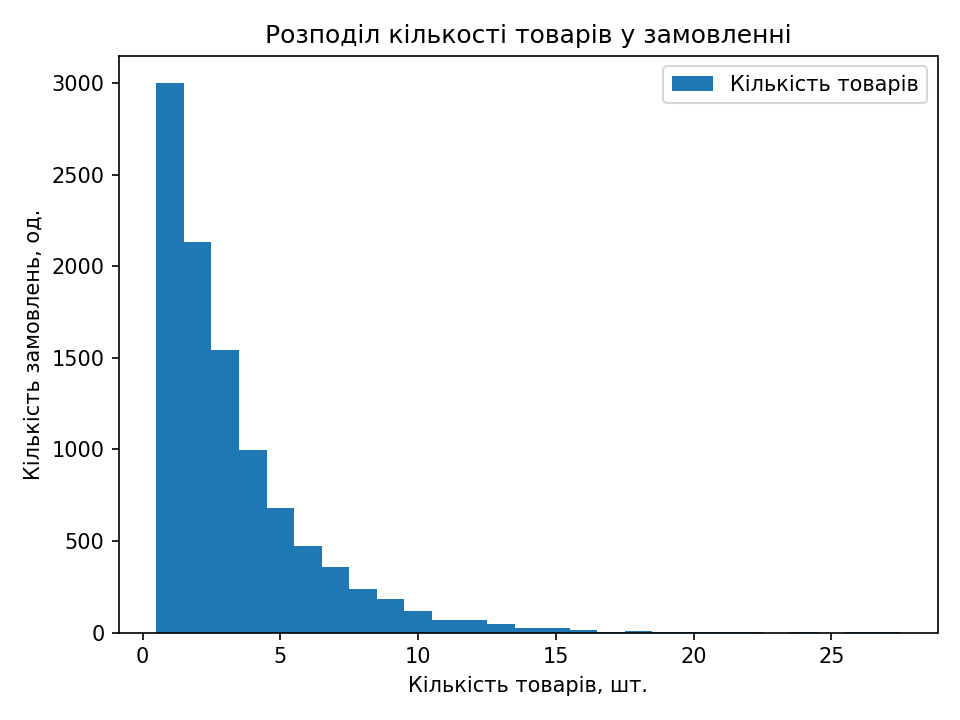
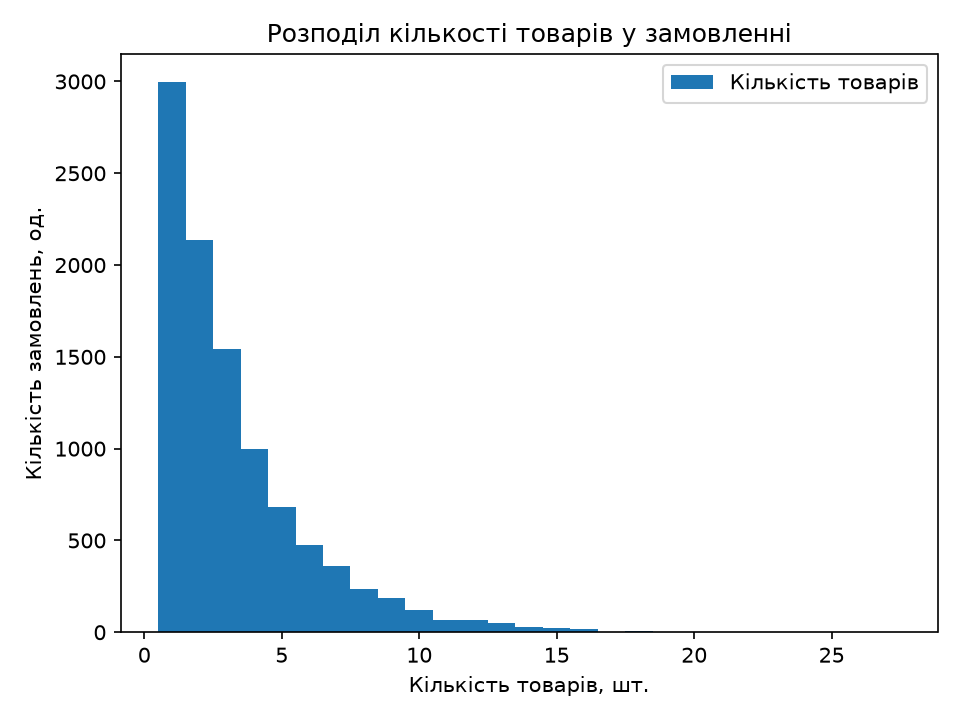
feat: λ залежить від періодів дня (вимога умови теми 10)
- input_stream: PERIODS (4 періоди дня), lam_for_step(), mean_arrival_rate()
- sim_core: simulate_day приймає lam як число або функцію lam(step) - зворотна сумісність
- stage1/stage2: використовують розклад λ, друкують періоди дня
- analytics/stage3: усереднення λ для аналітичної моделі, лог про періоди
- plots: перегенеровано рисунки під нову модель

diff --git a/src/stage3_analytic.py b/src/stage3_analytic.py
@@ -7,11 +7,11 @@ import pandas as pd
 
 if __package__:
     from .analytics import run_analytics
-    from .input_stream import mean_service_time
+    from .input_stream import lam_for_step, mean_arrival_rate, mean_service_time
     from .sim_core import DAY_MIN, STEP_MIN
 else:
     from analytics import run_analytics
-    from input_stream import mean_service_time
+    from input_stream import lam_for_step, mean_arrival_rate, mean_service_time
     from sim_core import DAY_MIN, STEP_MIN
 
 
@@ -83,13 +83,18 @@ def calculate_analytic(C, queue_limit, lam, mean_service=None):
 def compare_with_simulation(
     queue_limit, lam, workers=range(1, 5), runs=100, seed=42
 ):
-    """Порівнює середнє імітації з теоретичними значеннями для тих самих умов."""
+    """Порівнює середнє імітації з теоретичними значеннями для тих самих умов.
+
+    У імітації λ може бути розкладом за періодами дня, а аналітична модель
+    M/M/C/(C+m) однорідна за часом - тому для неї береться середнє λ за день.
+    """
     simulation = run_analytics(
         queue_limit, lam, workers=workers, runs=runs, seed=seed
     )
+    lam_analytic = mean_arrival_rate() if callable(lam) else lam
     analytic_rows = []
     for count in simulation["workers"]:
-        result = calculate_analytic(count, queue_limit, lam)
+        result = calculate_analytic(count, queue_limit, lam_analytic)
         analytic_rows.append({
             "workers": count,
             "analytic_served_per_day": result.served_per_day,
@@ -103,8 +108,9 @@ def compare_with_simulation(
 
 if __name__ == "__main__":
     queue_limit = 5
-    lam = 3
-    print("Параметри: lambda =", lam, "клієнтів за", STEP_MIN, "хв;")
+    lam = lam_for_step      # λ за періодами дня (вимога умови); середнє = 3.0
+    print("Параметри: lambda =", mean_arrival_rate(), "клієнтів за", STEP_MIN,
+          "хв (середнє за день; у імітації - розклад за періодами);")
     print("m =", queue_limit, "місць у черзі;")
     print("E[S] =", round(mean_service_time(), 4), "хв; день =", DAY_MIN, "хв.")
     print(compare_with_simulation(queue_limit, lam).to_string(index=False))

diff --git a/stage2_multi.py b/stage2_multi.py
@@ -8,10 +8,12 @@ import sys
 sys.path.insert(0, os.path.join(os.path.dirname(os.path.abspath(__file__)), "src"))
 
 import numpy as np
+from input_stream import PERIODS, lam_for_step
 from sim_core import simulate_day
 
 # --- параметри (підбираються командою) ---
-LAM = 3             # середня кількість клієнтів за крок (15 хв)
+# λ залежить від часу доби (вимога умови теми 10) - див. PERIODS у input_stream.py
+LAM = lam_for_step
 QUEUE_LIMIT = 5     # максимум місць у черзі
 C_VALUES = [1, 2, 3, 4]   # скільки працівників пробуємо
 
@@ -20,6 +22,10 @@ N_RUNS = 100        # прогонів на кожен варіант
 print("=" * 64)
 print("ЕТАП 2: багатоканальна система")
 print("=" * 64)
+print("Періоди дня (λ - середня кількість клієнтів за крок 15 хв):")
+for _name, _start, _end, _value in PERIODS:
+    print(f"  {_name}: кроки {_start}-{_end - 1}, лямбда = {_value}")
+print()
 print(f"{'Працівників':>12} | {'Обслужено':>10} | {'Втрачено':>9} | {'Простій':>8}")
 print("-" * 64)
 

diff --git a/stage1_single.py b/stage1_single.py
@@ -8,16 +8,21 @@ import sys
 sys.path.insert(0, os.path.join(os.path.dirname(os.path.abspath(__file__)), "src"))
 
 import numpy as np
+from input_stream import PERIODS, lam_for_step
 from sim_core import simulate_day
 
 # --- параметри (підбираються командою) ---
-LAM = 3             # середня кількість клієнтів за крок (15 хв)
+# λ залежить від часу доби (вимога умови теми 10) - див. PERIODS у input_stream.py
+LAM = lam_for_step
 QUEUE_LIMIT = 5     # максимум місць у черзі
 C = 1               # ОДИН канал - це і є суть етапу 1
 
 print("=" * 50)
 print("ЕТАП 1: імітація одного каналу")
 print("=" * 50)
+print("\nПеріоди дня (λ - середня кількість клієнтів за крок 15 хв):")
+for _name, _start, _end, _value in PERIODS:
+    print(f"  {_name}: кроки {_start}-{_end - 1}, лямбда = {_value}")
 
 # --- 1) один прогін: показуємо, як минув один день ---
 day = simulate_day(C, QUEUE_LIMIT, LAM)

diff --git a/src/sim_core.py b/src/sim_core.py
@@ -26,7 +26,7 @@ def simulate_day(C, queue_limit, lam, rng=None):
         raise ValueError("C must be at least 1")
     if queue_limit < 0:
         raise ValueError("queue_limit cannot be negative")
-    if lam < 0:
+    if not callable(lam) and lam < 0:
         raise ValueError("lam cannot be negative")
 
     queue = []              # черга клієнтів (у кожного - свій час обслуговування)
@@ -40,7 +40,9 @@ def simulate_day(C, queue_limit, lam, rng=None):
 
     for step in range(N_STEPS):
         # --- 1. прийшли клієнти ---
-        arrived = poisson_arrivals(lam, rng)
+        # lam може бути числом (однорідний потік) або функцією lam(step) -
+        # тоді інтенсивність залежить від періоду дня (вимога умови теми 10).
+        arrived = poisson_arrivals(lam(step) if callable(lam) else lam, rng)
         for _ in range(arrived):
             busy_servers = sum(remaining > 0 for remaining in servers)
             if len(queue) + busy_servers < C + queue_limit:

diff --git a/src/analytics.py b/src/analytics.py
@@ -4,8 +4,10 @@ import numpy as np
 import pandas as pd
 
 if __package__:
+    from .input_stream import lam_for_step
     from .sim_core import simulate_day
 else:
+    from input_stream import lam_for_step
     from sim_core import simulate_day
 
 
@@ -42,4 +44,5 @@ def run_analytics(queue_limit, lam, workers=range(1, 5), runs=100, seed=42):
 
 
 if __name__ == "__main__":
-    print(run_analytics(queue_limit=5, lam=3).to_string(index=False))
+    # λ за періодами дня (вимога умови теми 10); середнє за день = 3.0
+    print(run_analytics(queue_limit=5, lam=lam_for_step).to_string(index=False))
